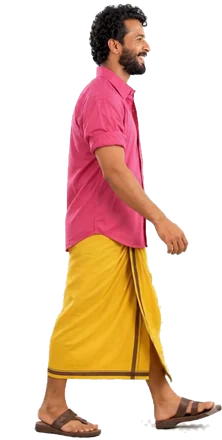
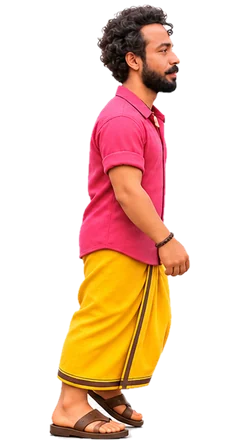
feat(ramanan): original walk with step bounce, looking pose on click, cheer only for the greeting; docs and site for v3.0.0

diff --git a/scripts/build-character.js b/scripts/build-character.js
@@ -140,55 +140,8 @@ async function buildPoses() {
   console.log(`poses: ${Object.keys(poses).join(", ")}`);
 }
 
-// Walk cycle from a video of the real walk. Recipe: walk.video (file in the source folder), "from" (seconds where one full
-// cycle starts), "cycle" (seconds one full cycle lasts), "frames" (how many frames to keep). Frames are aligned on the
-// shirt (x) and keep their true height, so the feet rise and fall like in the video.
-async function buildWalkFromVideo(w) {
-  const tmp = fs.mkdtempSync(path.join(require("node:os").tmpdir(), "walk-"));
-  const { spawnSync } = require("node:child_process");
-  const run = spawnSync(require("ffmpeg-static"), ["-v", "error", "-ss", String(w.from), "-t", String(w.cycle), "-i", path.join(srcDir, w.video), "-vf", `fps=${w.frames / w.cycle}`, path.join(tmp, "f%03d.png")]);
-  if (run.status !== 0) throw new Error(`ffmpeg failed: ${run.stderr}`);
-  const files = fs.readdirSync(tmp).sort().slice(0, w.frames);
-  if (files.length !== w.frames) throw new Error(`expected ${w.frames} walk frames, got ${files.length}`);
-  const mats = [];
-  for (const f of files) {
-    const m = await matte(path.join(tmp, f), { light: 222, sat: 22 });
-    let sx = 0, sc = 0;
-    for (let i = 0; i < m.W * m.H; i++) if (m.data[i * 4 + 3] > 200 && isShirt(m.data[i * 4], m.data[i * 4 + 1], m.data[i * 4 + 2])) { sx += i % m.W; sc++; }
-    mats.push({ m, b: bbox(m), cx: sx / sc });
-  }
-  const left = Math.max(...mats.map((f) => f.cx - f.b.x0)), right = Math.max(...mats.map((f) => f.b.x1 - f.cx));
-  const top = Math.min(...mats.map((f) => f.b.y0)), bottom = Math.max(...mats.map((f) => f.b.y1));
-  const cw = Math.ceil(left + right + 1), ch = bottom - top + 1;
-  fs.rmSync(path.join(out, "anim", "walk"), { recursive: true, force: true });
-  fs.mkdirSync(path.join(out, "anim", "walk"), { recursive: true });
-  const names = [];
-  let outW = 0, outH = 0;
-  for (const [i, f] of mats.entries()) {
-    const full = await toSharp(f.m).png({ compressionLevel: 1 }).toBuffer();
-    const x = Math.round(f.cx - left); // source column that lands on the left edge of the common canvas
-    const M = 800; // transparent margin so the crop window may reach outside the video frame
-    const padded = await sharp(full).extend({ top: M, bottom: M, left: M, right: M, background: { r: 0, g: 0, b: 0, alpha: 0 } }).png({ compressionLevel: 1 }).toBuffer();
-    const crop = await sharp(padded).extract({ left: x + M, top: top + M, width: cw, height: ch }).png().toBuffer();
-    const img = await sharp(crop).resize({ height: w.height, kernel: "lanczos3" }).toBuffer();
-    const meta = await sharp(img).metadata();
-    outW = meta.width; outH = meta.height;
-    const name = `walk/${String(i).padStart(4, "0")}.webp`;
-    await webp(sharp(img), path.join(out, "anim", name), cfg.quality || 88);
-    names.push(name);
-  }
-  fs.rmSync(tmp, { recursive: true, force: true });
-  const { frames: _f, video: _v, from: _s, cycle: _c, height: _h, ...rest } = w;
-  const manifestFile = path.join(out, "anim", "manifest.json");
-  const prev = fs.existsSync(manifestFile) ? JSON.parse(fs.readFileSync(manifestFile, "utf8")) : {};
-  prev.animations = { ...prev.animations, walk: { frames: names, loop: true, width: outW, height: outH, ...rest } };
-  fs.writeFileSync(manifestFile, JSON.stringify(prev, null, 2) + "\n");
-  console.log(`walk (video): ${names.length} frames at ${outW}x${outH}`);
-}
-
 async function buildWalk() {
   const w = cfg.walk;
-  if (w.video) return buildWalkFromVideo(w);
   const sheet = await matte(path.join(srcDir, `${w.sheet}.png`), { light: 222, sat: 22 });
   const { data, W, H } = sheet;
   // label connected pieces (8-neighbour); the sheet has w.frames separate figures

diff --git a/site/index.html b/site/index.html
@@ -60,10 +60,10 @@
         "price": "0",
         "priceCurrency": "USD"
       },
-      "description": "Free, open-source animated desktop companion for Windows and macOS featuring Dashamoolam Damu with Malayalam comedy dialogues, voice clips, and interactive mouse reactions.",
+      "description": "Free, open-source animated desktop companion for Windows and macOS featuring two characters, Dashamoolam Damu and Ramanan, with Malayalam comedy dialogues, voice clips, and interactive mouse reactions.",
       "image": "https://abidkakkur11.github.io/damu-companion/assets/og-image.png",
       "screenshot": "https://abidkakkur11.github.io/damu-companion/assets/settings-general.webp",
-      "softwareVersion": "0.1.0",
+      "softwareVersion": "3.0.0",
       "license": "https://opensource.org/licenses/MIT",
       "author": {
         "@type": "Person",
@@ -145,7 +145,7 @@
       <a href="#features">Features</a>
       <a href="#how">How it works</a>
       <a href="#demo">Demo</a>
-      <a href="#upcoming">Upcoming</a>
+      <a href="#upcoming">Ramanan</a>
       <a href="#screens">Screenshots</a>
       <a href="#faq">FAQ</a>
       <a class="gh" href="https://github.com/abidkakkur11/damu-companion" rel="noopener">GitHub</a>
@@ -272,19 +272,23 @@
     <div class="wrap">
       <div class="upcoming-grid">
         <div class="upcoming-copy reveal">
-          <p class="eyebrow"><span class="dot dot-fire"></span> Next Release: v3.0 (In Development)</p>
-          <p class="kicker">Who's next?</p>
+          <p class="eyebrow"><span class="dot dot-fire"></span> New in v3.0</p>
+          <p class="kicker">A second companion</p>
           <h2>Meet Ramanan..<br><span class="grad grad-aavesham">Full-on Janga jaga on your desktop.</span></h2>
-          <p class="lead">Get ready for maximum energy! In the upcoming release of Damu Companion, <strong>Ramanan</strong> is crashing onto your screen. Expect wild towel-waving celebrations from Punjabi House</p>
+          <p class="lead">Maximum energy! <strong>Ramanan</strong> now joins Damu on your desktop. He walks in waving his towel, introduces himself with his own voice, and reacts when you click, double-click or drag him.</p>
           <ul class="upcoming-perks">
             <li>
               <span class="perk-ico">🔄</span>
-              <div><b>Companion Switcher:</b> Choose between Damu and Ramanan anytime right from Settings.</div>
+              <div><b>Companion Switcher:</b> Choose between Damu and Ramanan anytime, from Settings or the tray / menu-bar menu. The change is instant.</div>
+            </li>
+            <li>
+              <span class="perk-ico">🚶</span>
+              <div><b>Smoother and lighter:</b> steady walking speed, a gentler animation and less CPU and memory use for both characters.</div>
             </li>
           </ul>
           <div class="upcoming-badge">
-            <span class="badge-tag">Coming Soon</span>
-            <span class="badge-text">Arriving in Damu Companion v3.0 as a free update</span>
+            <span class="badge-tag">Available now</span>
+            <span class="badge-text">Included in Damu Companion v3.0, a free update</span>
           </div>
         </div>
 

diff --git a/src/companion.js b/src/companion.js
@@ -648,8 +648,8 @@ function funAction(name) {
     };
     turn();
   } else {
-    // Cheer: a few quick hops (in the cheering pose if the character has one)
-    setPose(poses.cheer ? "cheer" : "nail-look");
+    // Cheer: a few quick hops. The cheering picture is kept for the greeting only.
+    setPose(poses.cheer ? "neutral" : "nail-look");
     let hops = 3;
     const hop = () => {
       if (!alive()) return;
@@ -710,7 +710,7 @@ function react(kind) {
 
   if (kind === "click") {
     // Startled reaction
-    const pose = poses.confused ? "confused" : "apologies";
+    const pose = poses.looking ? "looking" : "apologies";
     setPose(pose);
     doHop(26, 0.36);
     const entry = playEntry(content.mouse.click, "click");
@@ -1041,6 +1041,8 @@ function frame(now) {
 
     // Subtle forward tilt into direction of movement (organic momentum)
     tfRot += targetDir * (currentWalkSpeed / WALK_SPEED) * 1.6;
+    // Gentle step bounce for cross-faded walks (two bounces per cycle), so the walk has weight
+    if (anims.walk?.blend) tfY -= Math.abs(Math.sin(walkCycleProgress * Math.PI * 2)) * 3 * (currentWalkSpeed / WALK_SPEED);
   } else {
     // 2. Breathing / Micro-Idling (organic life simulation)
     if (mode === "stand" || mode === "nail_look" || mode === "hover_nail" || mode === "looking" || mode === "looking_up") {

diff --git a/CHANGELOG.md b/CHANGELOG.md
@@ -4,17 +4,18 @@ All notable changes to this project are documented here.
 The format is based on [Keep a Changelog](https://keepachangelog.com/en/1.1.0/),
 and this project follows [Semantic Versioning](https://semver.org/).
 
-## [3.0.0] - Unreleased
+## [3.0.0] - 2026-11-22
 
 A second character, a character switch, and a lighter, steadier app.
 
 ### Added
-- **Ramanan**, a new character with ten poses (including angry, confused, laughing and a towel-waving cheer that introduces him, with his intro voice clip) and a natural walk cycle built from a video of a real walk.
-  He is the default; his dialogues are text-only until you add voice clips.
+- **Ramanan**, a new character with ten poses and a smooth, cross-faded walk cycle with a gentle step bounce. He is the default.
+  He introduces himself in the towel-waving cheer pose with his intro voice clip, a single click shows the `looking` pose, a double-click the `angry` one, and `confused` and `laughing` are available for dialogues. His voice clips and Malayalam dialogues are included.
+- A greeting can choose its picture: `"greeting": { "text": "...", "audio": "intro", "pose": "cheer" }`.
 - **Character switch** in Settings > General (a card per character) and in the tray / menu-bar menu. The change is live
   and the tray icon follows the character.
 - `npm run character`: builds a character from raw artwork (background removal, walk-frame alignment, faces).
-- A "spin" fun move after OK, and a `cheer` pose for characters that have one.
+- A "spin" fun move after OK. The `cheer` picture is kept for the greeting; after OK a character hops or spins in a normal pose.
 
 ### Changed
 - Assets moved to `assets/characters/<id>/` (poses, anim, faces, audio, `content.json`).

diff --git a/README.md b/README.md
@@ -83,7 +83,7 @@ cycle, speech-bubble faces, voice clips and `content.json`.
 
 | Character | Poses | Walk cycle | Voice |
 | --- | --- | --- | --- |
-| Ramanan | 10 | 12 frames, from a real walk | intro clip included, add more in his content.json |
+| Ramanan | 10 | 8 frames, cross-faded | included |
 | Damu | 7 | 16 frames | included |
 
 **Adding a character:** put his artwork in a folder, describe it in `scripts/characters/<id>.json` (see `ramanan.json`),
@@ -121,10 +121,10 @@ character's `audio/` folder (`.wav` or `.mp3`, name without the extension; `npm 
 
 | Field | Meaning |
 | --- | --- |
-| `greeting` | Shown when Damu appears (launch, switched on, **Say hi**) |
+| `greeting` | Shown when Damu appears (launch, switched on, **Say hi**). Optional `pose` chooses its picture (Ramanan uses `cheer`) |
 | `goodbye` | Played when Damu is switched off and walks away (audio keeps playing after he is gone) |
 | `dialogues` | Damu picks one at random (never the same twice in a row), shows the text and plays the audio |
-| `pose` (optional) | `neutral`, `nail-look`, `looking`, `looking-up`, `warning` or `apologies`; random if omitted |
+| `pose` (optional) | Any pose the character has, e.g. `neutral`, `nail-look`, `looking`, `looking-up`, `warning`, `apologies`, `laughing`; random if omitted |
 | `action` (optional) | What he does after OK: `cheer` or `spin`; random if omitted |
 | `ok.audio` | Clips played when the user presses OK (one at random) |
 | `mouse.*` | Text is optional. With no text, only the sound plays. Empty list = silent |
